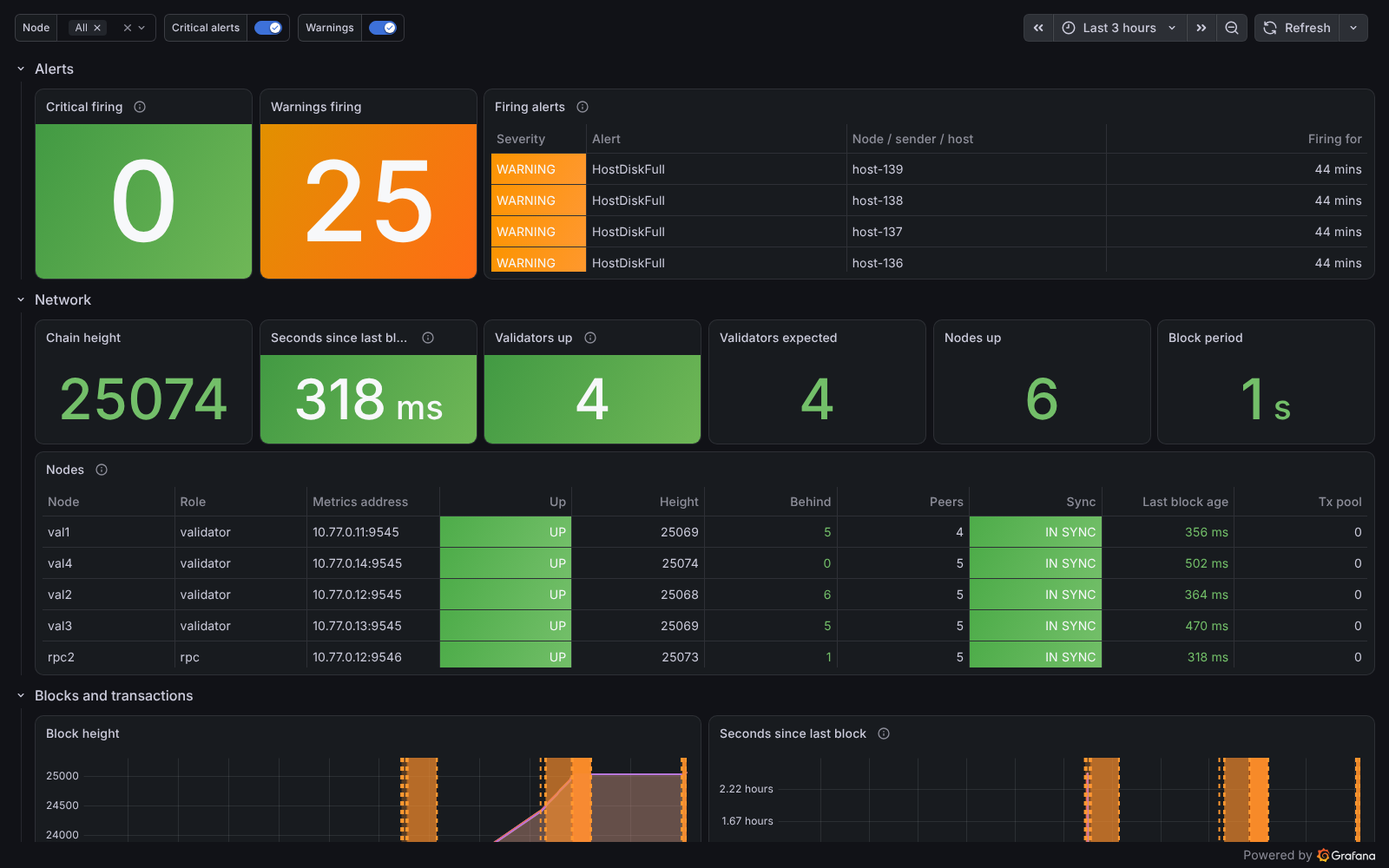
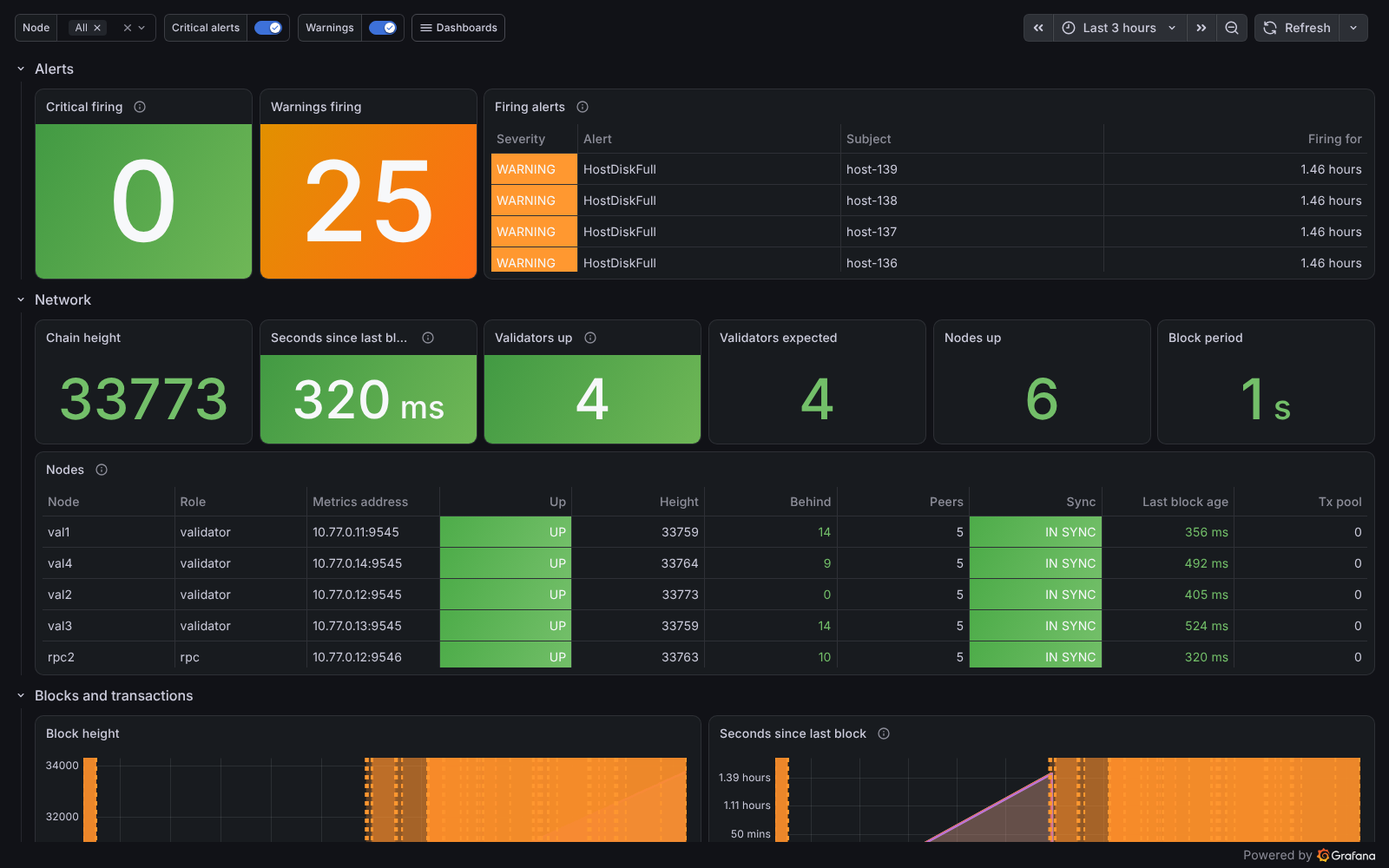
Proxy & Redis and Sections dashboards for many senders and sections; Alerts row on every dashboard
Proxy: proxy_sender_info names every sender (label account): SENDER01,
registry admin, contract center, "<section> · upfront|consumption|
payment", "<section> · user 0x1ce0…35fb", or the short address; with
its kind and section (from the registry, cached, refreshed every 15 s).

Proxy & Redis: the Senders section (moved from Besu production): Kind,
Section and Search filters; counts (senders, stalled, nonce gaps, check
failing, in flight, waiting above gap, repairs, fillers); "Senders
needing attention" (only the problems, worst first); "All senders"
(paged, filterable); top 10 charts and totals by kind instead of one
line per address.

Sections: Search filter; counts (active, disabled, upfront empty / low,
running out within 7 days, SENDER01, totals); "Sections needing
attention" (EMPTY, LOW, < 7 days left at the last 7 days' spending);
"All sections" (paged: balances, days left, spend per day, the period's
activity; archived sections left out); lowest / fewest days / most
collected / most income top 10 bars; totals by role and operation.

Both get the Alerts row of the other dashboards (shared helper
tools/common.py); the firing-alerts table everywhere now names a
section alert's section.

Lab: every query of the six dashboards runs without error; senders of
all kinds were named (platform, section accounts after a sweep and pay
back, a user after an NFT sale). Docs and screenshots updated.

Claude-Session: https://claude.ai/code/session_019V6cx31VFNJeRBvaBtQspb

diff --git a/monitoring/grafana/tools/gen_sections_dashboard.py b/monitoring/grafana/tools/gen_sections_dashboard.py
@@ -60,16 +60,17 @@ def timeseries(title, targets, x, y, w=12, h=8, unit="none", desc="", overrides=
                         "overrides": overrides or []}})
 
 
-def bargauge(title, expr, x, y, w, h, unit="none", decimals=2, desc="", steps=None):
+def bargauge(title, expr, x, y, w, h, unit="none", decimals=2, desc="", steps=None, no_value="none"):
     """one horizontal bar per section (top / bottom N), the section name on the left"""
     panels.append({
         "type": "bargauge", "title": title, "id": nid(), "description": desc, "datasource": DS,
         "gridPos": {"x": x, "y": y, "w": w, "h": h},
         "targets": [target(expr, "{{section}}", instant=True)],
         "options": {"orientation": "horizontal", "displayMode": "basic", "showUnfilled": True, "valueMode": "color",
-                    "namePlacement": "left", "sizing": "auto", "minVizHeight": 16, "maxVizHeight": 24,
+                    "namePlacement": "left", "sizing": "manual", "minVizHeight": 18, "maxVizHeight": 26,
+                    "text": {"titleSize": 13, "valueSize": 14},
                     "reduceOptions": {"calcs": ["lastNotNull"], "fields": "", "values": False}},
-        "fieldConfig": {"defaults": {"unit": unit, "decimals": decimals, "min": 0, "color": {"mode": "thresholds"},
+        "fieldConfig": {"defaults": {"unit": unit, "decimals": decimals, "min": 0, "color": {"mode": "thresholds"}, "noValue": no_value,
                                      "thresholds": {"mode": "absolute", "steps": steps or [{"color": "blue", "value": None}]}},
                         "overrides": []}})
 
@@ -147,9 +148,9 @@ def section_table(title, state_expr, y, h, desc, only_problems):
     transformations = [{"id": "merge", "options": {}},
                        {"id": "organize", "options": {"excludeByName": {"Time": True, "Value #H": True}, "renameByName": names,
                                                       "indexByName": {k: order.index(v) for k, v in names.items() if v in order}}}]
-    if only_problems:
-        transformations.append({"id": "filterByValue", "options": {
-            "filters": [{"fieldName": "State", "config": {"id": "isNotNull", "options": {}}}], "type": "include", "match": "any"}})
+    transformations.append({"id": "filterByValue", "options": {
+        "filters": [{"fieldName": "State" if only_problems else "Status", "config": {"id": "isNotNull", "options": {}}}],
+        "type": "include", "match": "any"}})
     panels.append({
         "type": "table", "title": title, "id": nid(), "description": desc, "datasource": DS,
         "gridPos": {"x": 0, "y": y, "w": 24, "h": h},
@@ -171,6 +172,7 @@ def section_table(title, state_expr, y, h, desc, only_problems):
                             {"matcher": {"id": "byName", "options": "Section"}, "properties": [{"id": "custom.width", "value": 200}]},
                             {"matcher": {"id": "byName", "options": "Days left"}, "properties": [
                                 {"id": "decimals", "value": 1}, {"id": "custom.cellOptions", "value": {"type": "color-text"}},
+                                {"id": "noValue", "value": "no spending"},
                                 {"id": "thresholds", "value": {"mode": "absolute", "steps": [
                                     {"color": "red", "value": None}, {"color": "orange", "value": 3}, {"color": "green", "value": 7}]}}]},
                             {"matcher": {"id": "byName", "options": "New accounts ($period)"}, "properties": [{"id": "decimals", "value": 0}]}]}})
@@ -194,7 +196,8 @@ bargauge("Lowest upfront: 10 sections", f'bottomk(10, max by (section) ({BAL[:-1
          steps=[{"color": "red", "value": None}, {"color": "orange", "value": 0.000001}, {"color": "green", "value": 100}])
 bargauge("Fewest days left: 10 sections", f'bottomk(10, {DAYS_LEFT})', 8, y, 8, 10, decimals=1,
          desc="Days the upfront account lasts at the last 7 days' spending (sections that spend nothing are not listed)",
-         steps=[{"color": "red", "value": None}, {"color": "orange", "value": 3}, {"color": "green", "value": 7}])
+         steps=[{"color": "red", "value": None}, {"color": "orange", "value": 3}, {"color": "green", "value": 7}],
+         no_value="no section spent from its upfront account in the last 7 days")
 bargauge("Most collected: 10 sections", f'topk(10, sum by (section) ({BAL[:-1]},role=~"consumption|payment"}}))', 16, y, 8, 10,
          desc="ETH in each section's consumption + payment accounts (earned, not paid back yet)")
 y += 10

diff --git a/monitoring/grafana/tools/gen_proxy_dashboard.py b/monitoring/grafana/tools/gen_proxy_dashboard.py
@@ -227,6 +227,7 @@ sender_table("All senders", f'{STATE} or {j("proxy_sender_stalled")} * 0', 0, y,
 y += 10
 timeseries("In flight: top 10 senders", [target(f'topk(10, {j("proxy_sender_inflight_transactions")} > 0)', "{{account}}")],
            0, y, w=12, decimals=0, desc="The 10 senders with the most transactions not mined yet, at each moment")
+panels[-1]["fieldConfig"]["defaults"]["noValue"] = "nothing in flight"
 timeseries("In flight by kind", [target(f'sum by (kind) ({j("proxy_sender_inflight_transactions")})', "{{kind}}")],
            12, y, w=12, decimals=0, stack=True, desc="Platform accounts, section accounts and users, added up")
 y += 8
@@ -234,6 +235,7 @@ timeseries("Not mined / nonce gap: top 10 (seconds)", [
     target(f'topk(10, {j("proxy_sender_stall_seconds")} > 0)', "not mined {{account}}"),
     target(f'topk(10, {j("proxy_sender_gap_seconds")} > 0)', "gap {{account}}", ref="B")],
     0, y, w=12, unit="s", desc="Only senders where it is happening; the longest 10 (alert ProxyNonceGap above 120 s)")
+panels[-1]["fieldConfig"]["defaults"]["noValue"] = "no sender waiting or with a gap"
 timeseries("Stalls, repairs and fillers per hour, by kind", [
     target(f'sum by (kind) (increase(proxy_sender_stalls_total[1h]) * on(sender) group_left(kind) {SEL})', "stalls {{kind}}"),
     target(f'sum by (kind) (increase(proxy_sender_nonce_repairs_total[1h]) * on(sender) group_left(kind) {SEL})', "repairs {{kind}}", ref="B"),

diff --git a/docs/operations/dashboards.md b/docs/operations/dashboards.md
@@ -29,9 +29,9 @@
 
 | You see | It means |
 |---|---|
-| **Alerts row** at the top (Besu, MPC, Hosts) | *Critical firing* and *Warnings firing* count every alert of the whole platform, not only this dashboard's. The *Firing alerts* table lists them, critical first, with the node, sender or host and *Firing for* (counted from when the condition started, including the rule's wait time). Every alert is explained in [alerts](alerts.md) |
+| **Alerts row** at the top of every dashboard (Alert log: the history) | *Critical firing* and *Warnings firing* count every alert of the whole platform, not only this dashboard's. The *Firing alerts* table lists them, critical first, with the node, sender or host and *Firing for* (counted from when the condition started, including the rule's wait time). Every alert is explained in [alerts](alerts.md) |
 | **Orange shaded bands with dashed lines** on time charts | periods when an alert was firing: the dashed lines are its start and end. Hover a line to see the alert's name |
-| **Variables** at the top (`node`, `coordinator`, `host`, `section`, `period`) | filters: *All* by default; pick one or several to narrow every panel |
+| **Variables** at the top (`node`, `coordinator`, `host`, `kind`, `section`, `search`, `period`) | filters: *All* by default; pick one or several to narrow every panel |
 | **Dashboards** menu (top right of the variables) | every dashboard, keeping the time range: the quickest way to the [Alert log](#alert-log) |
 | **Times** | your browser's local time. Logs on the hosts (`docker logs`, `journalctl`) may be in UTC |
 | **Small differences between nodes** | Prometheus reads each target every 15 s, at slightly different moments; with 1 s blocks two healthy nodes can differ by 10–15 blocks in one reading |
@@ -88,7 +88,7 @@ needs a restart by hand. Alert `BesuNodeStalled`.
 |---|---|---|---|
 | **Block height** | each node's height over time | all lines on one steady diagonal | a line that goes flat: that node stopped importing |
 | **Seconds since last block** | each node's newest-block age at each reading | flat lines between 0 and 1 s (each node is read at its own moment in the second, so each sits at its own level) | a line climbing steadily: that node is stuck |
-| **Transactions per second (in blocks)** | transactions included in blocks per second | follows your traffic | 0 while applications are sending: check *Proxy senders* below |
+| **Transactions per second (in blocks)** | transactions included in blocks per second | follows your traffic | 0 while applications are sending: check Proxy & Redis → *Senders* below |
 | **Gas used per block** | gas used (green) against the block gas limit (yellow, 30 M) | far below the limit | near the limit: blocks are full, transactions queue |
 | **Transaction pool** | pending transactions per node | back to ~0 after bursts | steady growth: blocks can't keep up or nonces have gaps (`BesuTxPoolGrowing` above 1,000) |
 | **Blocks behind** | the node's own estimate of how far it is behind the head it knows | 0 | stays up: it is catching up. A stalled node can show 0 here (it doesn't know): trust the Nodes table |
@@ -128,21 +128,8 @@ Besu runs on Java.
 
 ### Proxy senders
 
-The proxy sends from a few MPC accounts (senders), each with its own nonce sequence.
-
-**Senders (proxy)** table:
-
-| Column | Meaning | Colours / action |
-|---|---|---|
-| Sender | the sending account | |
-| Mined | are its transactions being mined? | **OK** green; **STALLED** red: transactions are ready in the RPC node's pool but blocks come without them. Restart **one** validator (`ProxySenderStalled`) |
-| In flight | sent, not yet mined | back to ~0 after bursts |
-| Waiting since | how long ready transactions have waited with nothing confirmed | 0 |
-| Nonce gap since | how long a nonce has been missing (later transactions wait) | green, orange from 30 s, red from 120 s (`ProxyNonceGap`); the proxy normally repairs it in ~30 s |
-| Waiting above gap | transactions held back behind a gap | 0 |
-| Repairs / Fillers | gaps repaired, empty filler transactions sent | read the proxy log when they rise |
-
-**Transactions in flight (proxy)** and **Not mined / gap (seconds)**: the same values over time.
+Moved to **Proxy & Redis → [Senders](#senders)**: every sender by name (SENDER01, `Shop B · upfront`,
+`Shop B · user 0x51a9…`), filters for kind, section and a search, the senders needing attention first.
 
 ---
 
@@ -197,9 +184,10 @@ minutes (`MpcPoolEmpty`, `MpcPresignFailing`): they clear by themselves.
 
 ## Proxy & Redis
 
-The application API and its nonce cache. Prometheus reads both **through the proxy VIP**, so this
-dashboard always shows the **active** proxy. File: `proxy-redis.json` (generated by
-`monitoring/grafana/tools/gen_proxy_dashboard.py`).
+The application API, the accounts it sends from, and its nonce cache. Prometheus reads the proxy and
+Redis **through the proxy VIP**, so this dashboard always shows the **active** proxy. File:
+`proxy-redis.json` (generated by `monitoring/grafana/tools/gen_proxy_dashboard.py`). It starts with
+the **Alerts** row like every dashboard.
 
 ![Proxy & Redis dashboard (lab)](../images/screenshots/grafana-proxy-redis.png)
 
@@ -225,13 +213,48 @@ dashboard always shows the **active** proxy. File: `proxy-redis.json` (generated
 | **95th percentile by route** | every route, including the slow-by-design ones |
 | **Routes in the selected time range** | per route: requests, 5xx + aborted, 4xx, p95, average (estimates from Prometheus `increase()`) |
 
-### Senders and nonces
+### Senders
 
-| Panel | Shows | Healthy |
-|---|---|---|
-| **Transactions in flight per sender** | sent, not yet mined | back to ~0 after bursts |
-| **Nonce gaps (seconds missing)** | how long a nonce has been missing | 0; alert above 120 s |
-| **Stalls and repairs** | ready transactions not mined (stalls) and gaps the proxy repaired | 0; read the proxy log when they appear |
+Every account the proxy sends from: SENDER01, the contract account center, the registry admin, each
+section's accounts and the user accounts used in the last few minutes. With many senders, read the
+counts and the **Senders needing attention** table; the rest is there to look one up.
+
+Each sender has a **name** from the proxy (`proxy_sender_info`, label `account`): the platform
+accounts by name, section accounts as `<section> · upfront` / `consumption` / `payment`, user
+accounts as `<section> · user 0x1ce0…35fb`, others by their short address. Variables at the top:
+**Kind** (platform, upfront, consumption, payment, user, retired, other), **Section**, and **Search**
+(part of a name or an address).
+
+![Proxy & Redis, Senders (lab): counts, the senders needing attention (none), all senders by name](../images/screenshots/grafana-proxy-senders.png)
+
+| Panel | Shows | Healthy | If not |
+|---|---|---|---|
+| **Senders** | senders matching the filters | | |
+| **Stalled** | senders whose ready transactions are not mined while blocks are produced | 0 | restart **one** validator (`ProxySenderStalled`) |
+| **Nonce gaps** | senders with a missing nonce (later transactions wait) | 0 | the proxy repairs it in ~30 s; `ProxyNonceGap` after 120 s |
+| **Check failing** | senders whose chain check failed | 0 | `ProxySenderCheckFailing`: the RPC VIP or Besu |
+| **In flight** / **Waiting above gap** | transactions sent and not mined / held back behind a gap, all matching senders | back to ~0 after bursts / 0 | |
+| **Repairs (range)** / **Fillers (range)** | gaps repaired / filler transactions sent in the selected time range | 0 | read the proxy log |
+
+**Senders needing attention**: only the senders with a problem now, worst first; *all senders OK*
+when there is none. **All senders**: every sender matching the filters, problems first, with pages
+at the bottom. Columns (each can be sorted, or filtered with the funnel):
+
+| Column | Meaning |
+|---|---|
+| **Sender** / **Kind** / **Section** / **Address** | the name, what it is, its section, the full address |
+| **State** | **STALLED** red, **CHECK FAILING** purple, **NONCE GAP** orange, **WAITING** yellow (transactions above a gap), **OK** green |
+| **In flight** | sent, not yet mined |
+| **Not mined for** / **Nonce gap for** | how long ready transactions have waited / a nonce has been missing; orange from 30 s, red from 120 s |
+| **Waiting above gap** | transactions held back behind the gap |
+| **Stalls** / **Repairs** / **Fillers** | in the selected time range |
+
+| Chart | Shows |
+|---|---|
+| **In flight: top 10 senders** | at each moment, the 10 senders with the most transactions not mined, by name |
+| **In flight by kind** | platform, section and user accounts, stacked |
+| **Not mined / nonce gap: top 10** | only senders where it is happening, the 10 longest |
+| **Stalls, repairs and fillers per hour, by kind** | how often the proxy had to step in |
 
 ### Proxy process
 
@@ -259,10 +282,12 @@ dashboard always shows the **active** proxy. File: `proxy-redis.json` (generated
 
 ## Sections
 
-Money and activity per section ([sections](../features/sections.md)). File: `sections.json`
-(generated by `monitoring/grafana/tools/gen_sections_dashboard.py`). Variables: **section** (one,
-several or all) and **Period** (Day, Week, Month = 30 days, Quarter = 90 days, Year = 365 days).
-The default time range is the last 30 days.
+Money and activity per section ([sections](../features/sections.md)), built for many sections: counts
+first, then the sections needing attention, one table with every section, and top / bottom 10 charts
+instead of one line per section. File: `sections.json` (generated by
+`monitoring/grafana/tools/gen_sections_dashboard.py`). It starts with the **Alerts** row. Variables:
+**Section** (one, several or all), **Search** (part of a name) and **Period** (Day, Week, Month = 30
+days, Quarter = 90 days, Year = 365 days). The default time range is the last 30 days.
 
 ![Sections dashboard (lab)](../images/screenshots/grafana-sections.png)
 
@@ -270,21 +295,37 @@ The default time range is the last 30 days.
 
 | Panel | Shows | Healthy | If not |
 |---|---|---|---|
-| **Active sections** | enabled sections | your count | |
-| **Upfront below threshold** | enabled sections whose upfront account is below `upfront_low_balance_eth` | 0 | top them up on the chainlens Sections page (`SectionUpfrontLow`; at 0: `SectionUpfrontEmpty`) |
-| **Low-balance threshold** | `upfront_low_balance_eth` (0 = alert off) | | |
-| **SENDER01** | SENDER01's balance: it funds every top-up | above `sender01_low_balance_eth` | refill, or pay back from the payment accounts (`Sender01Low`) |
-| **All upfront** | ETH in every upfront account | | |
-| **All consumption + payment** | ETH collected by every section | | |
+| **Active sections** / **Disabled** | enabled / disabled sections (archived ones are not listed) | your count | |
+| **Upfront empty** | enabled sections whose upfront account is at 0: new accounts and −x fail | 0 (green) | red: top up now (`SectionUpfrontEmpty`) |
+| **Upfront low** | enabled sections below `upfront_low_balance_eth` | 0 | top up on the chainlens Sections page (`SectionUpfrontLow`) |
+| **Runs out within 7 days** | sections whose upfront account lasts less than 7 more days at the last 7 days' spending | 0 | top up before it runs out |
+| **SENDER01 (ETH)** | SENDER01's balance: it funds every top-up | above `sender01_low_balance_eth` | refill, or pay back from the payment accounts (`Sender01Low`) |
+| **All upfront (ETH)** / **Collected (ETH)** | ETH in every upfront account / in every consumption + payment account | | |
+
+### Sections
+
+**Sections needing attention**: only the sections with a problem now, worst first (*all sections OK*
+when there is none). **All sections**: every section, lowest upfront first, with pages at the bottom.
+Each column can be sorted, or filtered with the funnel.
+
+| Column | Meaning |
+|---|---|
+| **State** | **EMPTY** red (upfront at 0), **LOW** orange (below the threshold), **< 7 DAYS LEFT** yellow, **OK** green |
+| **Status** | active or disabled |
+| **Upfront** / **Consumption** / **Payment** | balances now (ETH) |
+| **Days left** | how long the upfront account lasts at the last 7 days' spending; *no spending* when it paid nothing out. Red under 3, orange under 7 |
+| **Spend / day** | ETH paid out of the upfront account per day over the last 7 days (−x transfers and the funding of new accounts) |
+| **New accounts**, **+x in**, **−x out**, **NFT sales**, **Top-ups**, **Swept**, **Paid back** (All sections only) | the last Period |
 
 ### Balances (ETH)
 
 | Panel | Shows | What to do |
 |---|---|---|
-| **Balances by section** | each section's upfront, consumption and payment balances | |
-| **Upfront accounts** | upfront balances over time, with the threshold as a dashed red line | top up before a line reaches the threshold |
-| **Consumption accounts** | money received (+x transfers, first NFT sales) | sweep to the payment account |
-| **Payment accounts** | swept money | pay back to SENDER01 |
+| **Lowest upfront: 10 sections** | the 10 enabled sections with the least upfront money (red at 0) | top up the first ones |
+| **Fewest days left: 10 sections** | the 10 sections that run out first at their current spending | |
+| **Most collected: 10 sections** | ETH in consumption + payment per section | sweep and pay back |
+| **All sections, by account role** | upfront, consumption and payment of the selected sections, added up, over time | |
+| **Lowest upfront over time: 10 sections** | the 10 lowest at each moment, with the threshold as a dashed red line | |
 
 ### Activity per period
 
@@ -293,14 +334,11 @@ estimates from `increase()`: amounts can be slightly off, counts are rounded.
 
 | Panel | Shows |
 |---|---|
-| **New accounts, last period** | accounts created by the selected sections in the last day / week / … |
-| **+x from users, last period (ETH)** | paid by users into the consumption accounts |
-| **NFT first sales, last period (ETH)** | first NFT sales, paid into the consumption accounts |
-| **Top-ups, last period (ETH)** | SENDER01 → upfront accounts |
-| **Operations per period** | bars per period and section: `create_account`, `transfer_in` (+x), `transfer_out` (−x), `nft_first_sale`, `nft_resale`, `topup`, `sweep`, `payback`. Each bar counts the period that **starts** at its date (today's bar = today so far) |
-| **ETH moved per period** | the same in ETH, per kind of operation |
-| **ETH moved in the last period** / **Operations in the last period** | tables per section and operation |
-| **ETH moved in the selected time range** | per section and operation over the dashboard's whole time range |
+| **New accounts / +x from users / NFT first sales / Top-ups, last period** | all selected sections |
+| **Most income / Most new accounts / Most spent, last period: 10 sections** | the top 10 sections of the last period |
+| **Operations per period** / **ETH moved per period** | bars per period and kind of operation (all selected sections): `create_account`, `transfer_in` (+x), `transfer_out` (−x), `nft_first_sale`, `nft_resale`, `topup`, `sweep`, `payback`. Each bar counts the period that **starts** at its date (today's bar = today so far) |
+| **Income per period: top 10 sections** | +x and first NFT sales, the 10 sections with the most income in each period |
+| **ETH moved in the selected time range** | per section (rows, with pages) and operation over the dashboard's whole time range |
 
 Choose a time range that holds several periods (Day: the last 14–30 days; Year: several years).
 Prometheus keeps `prometheus_retention` (default 400 days). The chainlens dashboard has the same
@@ -413,7 +451,8 @@ fired are not in the log.
 |---|---|
 | Is the chain making blocks? | Besu production → *Seconds since last block* |
 | Is a node stuck or behind? | Besu production → *Nodes* (Sync, Behind, Last block age) |
-| Why are transactions not mined? | Besu production → *Proxy senders*; Proxy & Redis → *Senders and nonces* |
+| Why are transactions not mined? | Proxy & Redis → *Senders needing attention* |
+| Which section runs out of money first? | Sections → *Sections needing attention*, *Fewest days left* |
 | Can we sign? Create accounts? | MPC signer → *MPC nodes up*, *Threshold* |
 | Why is signing slow? | MPC signer → *Signatures per second* (cold path), *Pools* |
 | Is the API failing or slow? | Proxy & Redis → *5xx errors*, *Latency p95*, *Errors per second* |

diff --git a/docs/components/monitoring.md b/docs/components/monitoring.md
@@ -67,19 +67,19 @@ Prometheus scrapes every 15 s, over the private network. One job per row
 
 All dashboards are in the Grafana folder **Production**. Grafana opens on **Besu production**.
 Every panel of every dashboard, with healthy values and what to do: [Grafana dashboards](../operations/dashboards.md).
-Every dashboard starts with an **Alerts** row: the number of critical and warning alerts firing,
+Every dashboard (Besu, MPC, Proxy & Redis, Sections, Hosts) starts with an **Alerts** row: the number of critical and warning alerts firing,
 and a table of every firing alert (critical first, with "Firing for").
 
 ![The Besu production dashboard](../images/screenshots/grafana-besu-production.png)
 
 | Dashboard | File | Shows |
 |---|---|---|
-| **Besu production (QBFT)** | `besu-production.json` | chain height, seconds since last block, validators up vs expected, nodes up, block period; the **Nodes** table (below); block height, block time, tx/s, gas per block, tx pool, blocks behind; transaction volume (in range, last hour, last 24 h, average tx/s); peers, refused connections, JSON-RPC rate and p95 latency, P2P traffic; CPU, JVM heap, GC, resident memory; **Proxy senders**: per sender mined OK / STALLED, in flight, waiting, nonce gap, repairs, fillers |
+| **Besu production (QBFT)** | `besu-production.json` | chain height, seconds since last block, validators up vs expected, nodes up, block period; the **Nodes** table (below); block height, block time, tx/s, gas per block, tx pool, blocks behind; transaction volume (in range, last hour, last 24 h, average tx/s); peers, refused connections, JSON-RPC rate and p95 latency, P2P traffic; CPU, JVM heap, GC, resident memory |
 | **MPC signer** | `mpc-signer.json` | coordinator up, MPC nodes up vs threshold, keys, presignatures ready, signatures/s; an **MPC nodes** table; signatures/s (hot/cold), signing latency, failures and policy refusals, open relay sessions; pools of big keys (one by one) and of small keys (totals), presign rate, duration and sessions running, keys per pool class, node reachability |
-| **Proxy & Redis** | `proxy-redis.json` | the active proxy: up, requests/s, 5xx share, latency p95, in flight, Redis link, uptime; requests and errors (4xx / 5xx) per route, answer time p50/p95/p99 (without `/createaccount` and `/admin`) and p95 per route, a table per route; transactions in flight, nonce gaps, stalls and repairs per sender; memory, event-loop delay, requests in flight; **Redis**: up, clients, memory, keys, hit ratio, last save, uptime, commands/s and average command time |
+| **Proxy & Redis** | `proxy-redis.json` | the active proxy: up, requests/s, 5xx share, latency p95, in flight, Redis link, uptime; requests and errors (4xx / 5xx) per route, answer time p50/p95/p99 (without `/createaccount` and `/admin`) and p95 per route, a table per route; **Senders** by name (SENDER01, `Shop B · upfront`, `Shop B · user 0x…`) with Kind / Section / Search filters: counts, the senders needing attention, all senders (paged), top 10 charts; memory, event-loop delay, requests in flight; **Redis**: up, clients, memory, keys, hit ratio, last save, uptime, commands/s and average command time |
 | **Hosts** | `hosts.json` | a table per host, CPU, memory, disk used, disk I/O, network in/out; **Backups**: per backup and node, last success, last run, size and (chain snapshot) block |
 | **Alert log** | `alert-log.json` | every alert that fired since the deployment: firing now, alerts and episodes in the range, firing alerts per severity over time, a timeline per alert, and the log table (severity, alert, subject, now, last started, last seen firing, times fired, time firing). [Panel by panel](../operations/dashboards.md#alert-log) |
-| **Sections** | `sections.json` | ([Sections](../features/sections.md)) active sections, upfront accounts below the threshold, the threshold, SENDER01, all upfront, all consumption + payment; balances of every section's upfront / consumption / payment account (table and over time); operations and ETH moved per section and kind, per **Period** |
+| **Sections** | `sections.json` | ([Sections](../features/sections.md)) built for many sections, with Section / Search / Period filters: counts (active, disabled, upfront empty / low, running out within 7 days, SENDER01, totals); the sections needing attention; all sections in one paged table (balances, days left, spend per day, the period's activity); lowest / fewest days left / most collected / most income: top 10; operations and ETH moved per **Period** |
 
 **Nodes table (Besu production).** One row per node: Node, Role, Metrics address, Up, Height,
 Behind, Peers, Sync, Last block age, Tx pool.

diff --git a/docs/operations/alerts.md b/docs/operations/alerts.md
@@ -52,7 +52,7 @@ and Redis, sections, hosts, backups).
 | [**BesuNotInSync**](alert-runbook.md#besunotinsync) | warning | 5 min | The node says it is syncing, or is more than 10 blocks behind the best block it knows | Catching up after a restart is normal for a few minutes. If it lasts, check its peers and log |
 | [**BesuPeersMissing**](alert-runbook.md#besupeersmissing) | warning | 5 min | A node has fewer peers than (nodes up − 1) | Every node should connect to all the others: firewall, `static-nodes.json` or `permissions_config.toml` |
 | [**BesuPeersLow**](alert-runbook.md#besupeerslow) | warning | 2 min | A node has fewer than 2 peers | One connection away from isolation; a node with one peer can stall when that peer stops sending blocks. Check the network and firewall to the other hosts |
-| [**BesuTxPoolGrowing**](alert-runbook.md#besutxpoolgrowing) | warning | 10 min | More than 1,000 pending transactions on a node | Transactions arrive faster than blocks take them, or are stuck (nonce gaps, gas). Check the proxy senders and `ProxySenderStalled` |
+| [**BesuTxPoolGrowing**](alert-runbook.md#besutxpoolgrowing) | warning | 10 min | More than 1,000 pending transactions on a node | Transactions arrive faster than blocks take them, or are stuck (nonce gaps, gas). Check Proxy & Redis → *Senders needing attention* and `ProxySenderStalled` |
 | [**BesuHeapHigh**](alert-runbook.md#besuheaphigh) | warning | 10 min | Java heap above 90 % of its maximum | Long garbage-collection pauses come next. Raise `-Xmx` (`besu_java_opts`) if the host has the RAM, or find what grows |
 | [**BesuUnpermittedPeers**](alert-runbook.md#besuunpermittedpeers) | info | – | A node refused a connection from a node not in `permissions_config.toml` | An unknown machine, or one of yours with a changed key or IP |
 

diff --git a/docs/operations/alert-runbook.md b/docs/operations/alert-runbook.md
@@ -168,7 +168,7 @@ and can stall.
 
 **Warning.** More than 1,000 pending transactions on a node for 10 minutes.
 
-1. **Confirm:** *Transaction pool* chart; Besu production → *Proxy senders* (STALLED, nonce gaps).
+1. **Confirm:** *Transaction pool* chart; Proxy & Redis → *Senders needing attention* (STALLED, NONCE GAP).
 2. **Fix:**
    - A sender STALLED: [ProxySenderStalled](#proxysenderstalled).
    - A nonce gap: [ProxyNonceGap](#proxynoncegap).
@@ -350,7 +350,7 @@ slow path (~0.6 s per signature).
 **Critical.** A sender's transactions are ready in the RPC node's pool, but blocks keep coming
 without them: the validators don't have them.
 
-1. **Confirm:** Besu production → *Proxy senders*: Mined **STALLED** for that sender.
+1. **Confirm:** Proxy & Redis → *Senders needing attention*: that sender is **STALLED**.
 2. **Fix:** restart **one** validator (it fetches the pool again and includes them), for example on
    h137:
    ```bash
@@ -391,7 +391,7 @@ without them: the validators don't have them.
    ```
 2. **Fix:** no answer: HAProxy and the RPC nodes (`curl -s http://127.0.0.1:8410/` on h135 / h136;
    [BesuNodeDown](#besunodedown)).
-3. **Check:** the alert clears; *Proxy senders* updates again.
+3. **Check:** the alert clears; the sender is back to OK in Proxy & Redis → *All senders*.
 
 ### ProxyHttpErrors
 

diff --git a/docs/operations/troubleshooting.md b/docs/operations/troubleshooting.md
@@ -61,7 +61,7 @@
 |---|---|---|---|
 | Applications get connection errors | proxy down, VIP .151 moving | `ProxyDown`; `docker ps` on the VIP host | keepalived starts the other proxy; check `journalctl -u keepalived` |
 | A proxy container on the **standby** host shows `Exited (137)` | expected: keepalived stops any proxy on the host without the VIP (Docker restarts it at boot) | `journalctl -u keepalived` ("proxy running without the proxy VIP") | nothing |
-| Transactions sent but never mined (`ProxySenderStalled`) | the validators don't have them in their pool | Proxy senders panel | restart **one** validator |
+| Transactions sent but never mined (`ProxySenderStalled`) | the validators don't have them in their pool | Proxy & Redis → *Senders needing attention* | restart **one** validator |
 | A sender's transactions wait (`ProxyNonceGap`) | a missing nonce | `GET /status/senders`; proxy log | the proxy repairs it within ~30 s; otherwise read the log |
 | `redis unavailable` in the proxy log | Redis not ready at start, or down | `ProxyRedisDisconnected` | harmless for correctness; restart Redis |
 

diff --git a/docs/components/proxy.md b/docs/components/proxy.md
@@ -460,8 +460,8 @@ job `redis`), so it always reads the active proxy's Redis. The firewall opens 91
 monitoring host only.
 
 Grafana: the **Proxy & Redis** dashboard (requests, errors and latency per route, senders and
-nonces, memory and event-loop delay, Redis clients, memory, keys, hit ratio and commands), the
-*Proxy senders* row of **Besu production (QBFT)**, and **Sections**. Alerts (`ProxyDown`,
+every sender by name with what needs attention, memory and event-loop delay, Redis clients, memory,
+keys, hit ratio and commands) and **Sections**. Alerts (`ProxyDown`,
 `ProxySenderStalled`, `ProxyNonceGap`, `ProxyNonceRepaired`, `ProxySenderCheckFailing`,
 `ProxyHttpErrors`, `ProxySlow`, `ProxyEventLoopBlocked`, `ProxyRedisDisconnected`, `RedisDown`,
 `RedisMemoryHigh`) are in `monitoring/prometheus/rules/proxy.yml`; what each means and what to do:
